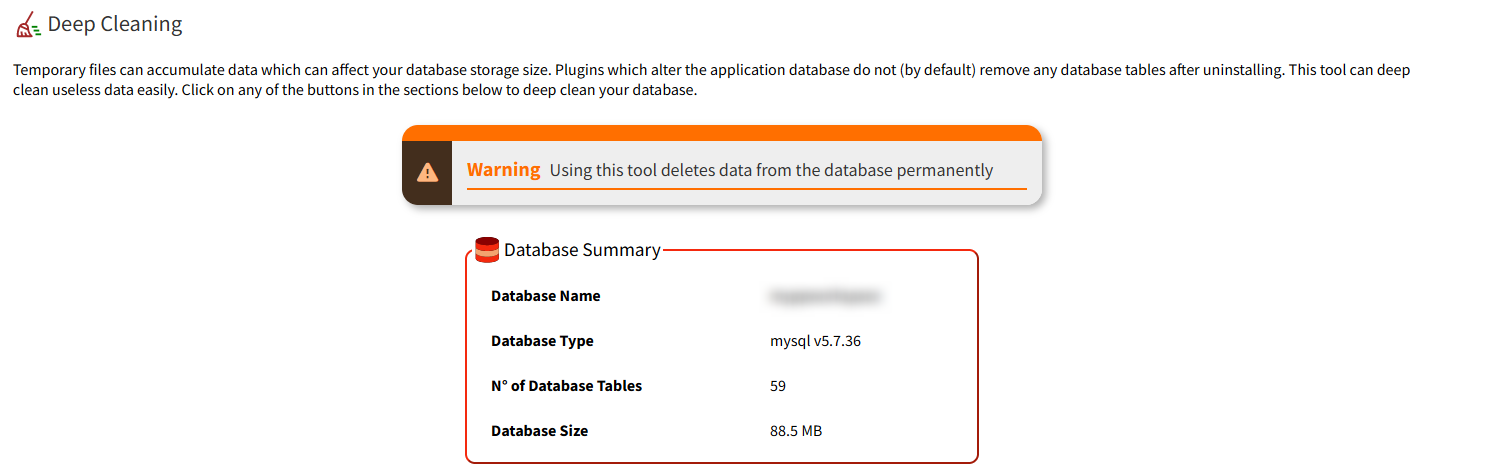
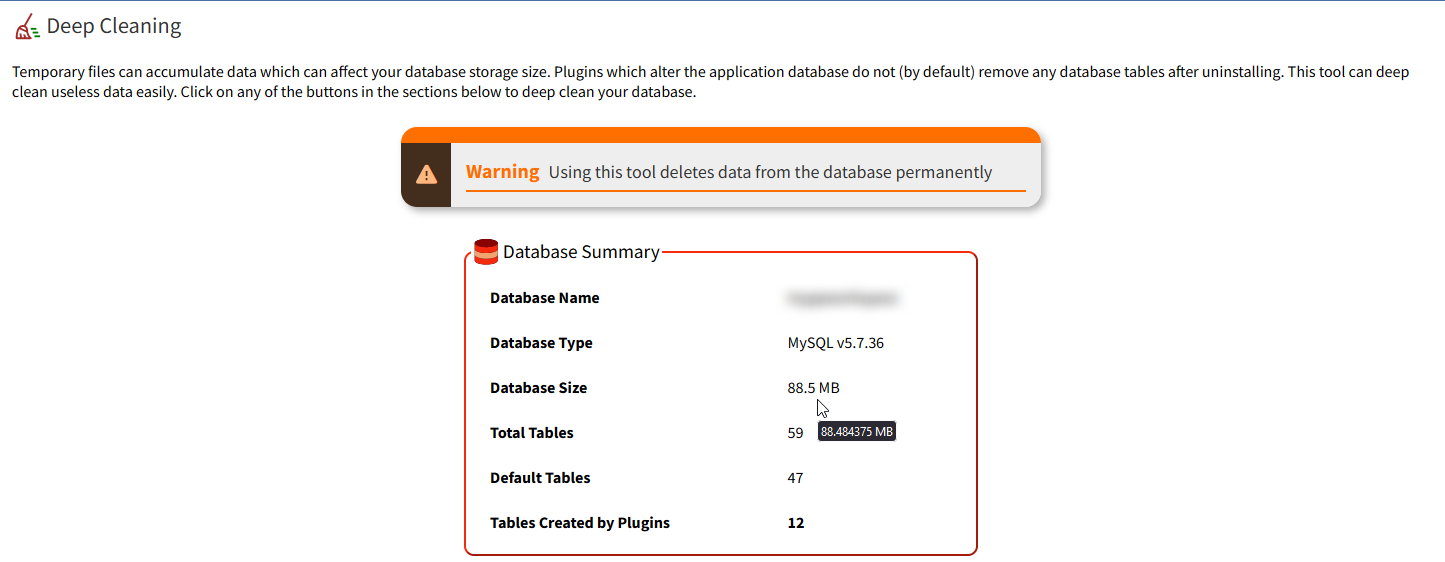
Update screenshots and README.md

diff --git a/README.md b/README.md
@@ -7,7 +7,8 @@ This tool allows admins to cleanup their Kanboard database by selectively deleti
 
 Features
 -------------
-- Show database summary
+- Show detailed database summary
+- Show default database tables
 - Delete `Remember Me` data
 - Delete [TemplateManager](https://github.com/aljawaid/TemplateManager "A Kanboard plugin")
 
@@ -15,9 +16,13 @@ Features
 Screenshots
 ----------
 
-**Deep Cleaning**  
+**Database Summary**  
 
-![Summary](../master/Screenshots/screenshot-summary.png "Deep Cleaning")
+![Summary](../master/Screenshots/screenshot-summary.png "Database Summary")
+
+**Default Tables**  
+
+![Summary](../master/Screenshots/screenshot-default-tables.png "Default Tables")
 
 
 Usage
